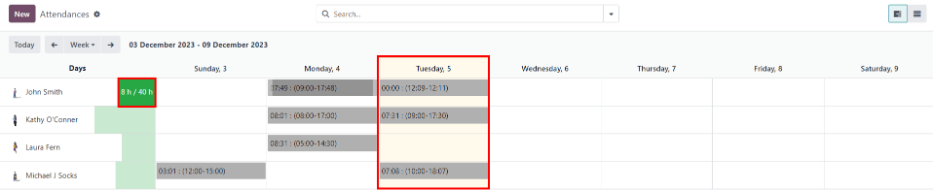
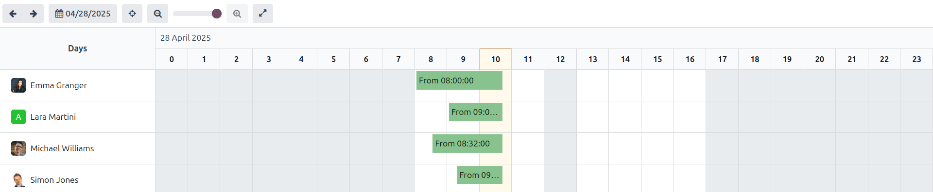
[IMP] Attendances: Update overview section
X-original-commit: c9d3d22939b2cc068b13187fb9f51f5cd41e8d51

diff --git a/content/applications/hr/attendances.rst b/content/applications/hr/attendances.rst
@@ -78,6 +78,8 @@ to access the configuration menu.
    company-specific configuration. Items without an :icon:`fa-building-o` :guilabel:`(building)`
    icon apply to all companies within the database.
 
+.. _attendances/modes:
+
 Modes
 -----
 
@@ -141,143 +143,137 @@ Overview
 ========
 
 When entering the **Attendances** application, the :guilabel:`Overview` dashboard is presented,
-containing all the check in and check out information for the signed in user. If the user has
-specific :ref:`access rights <attendances/access-rights>` and/or are :ref:`approvers
-<attendances/approvers>` for specific employees, then those additional employee's check in and check
-out information is also visible on the :guilabel:`Overview` dashboard.
+containing all the user's check in and check out information. If the user has the required
+:ref:`access rights <attendances/access-rights>` or is an :ref:`approver <attendances/approvers>`
+for specific employees, those employeess' check-in and check-out information also appears on the
+:guilabel:`Overview` dashboard.
 
-Views
------
-
-To change the view from the default Gantt chart to a list view, click the :guilabel:`List` icon in
-the top-right of the dashboard, beneath the user's photo. To switch back to the Gantt chart, click
-the :guilabel:`Gantt` button, located next to the :guilabel:`List` button.
-
-The default view presents the current day's information. To present the information for the
-:guilabel:`Week`, :guilabel:`Month`, or :guilabel:`Year`, click on the :guilabel:`Day` button to
-reveal a drop-down, displaying those other options. Select the desired view, and the dashboard
-updates, presenting the selected information. To change the :guilabel:`Day`, :guilabel:`Week`,
-:guilabel:`Month`, or :guilabel:`Year` presented, click the :icon:`oi-arrow-left` :guilabel:`(left
-arrow)` or :icon:`oi-arrow-right` :guilabel:`(right arrow)` buttons on either side of the drop-down
-menu. To jump back to a view containing the current day, click the :guilabel:`Today` button. This
-refreshes the dashboard, presenting information containing the current day's information.
-
-In the :guilabel:`Day` view, the column for the current hour is highlighted in yellow. If the
-:guilabel:`Week` or :guilabel:`Month` view is selected, the column for the current day is
-highlighted. If the :guilabel:`Year` view is selected, the current month is highlighted.
+The **Attendance** dashboard allows switching between :icon:`fa-tasks` :guilabel:`(Gantt)` and
+:icon:`oi-view-list` :guilabel:`(List)` views, and selecting a period to analyze. The current period
+is automatically highlighted in yellow for real-time attendance records, while the
+:icon:`fa-crosshairs` :guilabel:`(Focus Today)` button instantly returns the dashboard to the
+present date.
 
 .. image:: attendances/overview.png
    :alt: The overview dashboard presenting the information for the week, with the current day
          highlighted.
 
-Any entries that have errors appear in red, indicating they need to be resolved by a user with the
-proper :ref:`access rights <attendances/access-rights>` and/or are :ref:`approvers
-<attendances/approvers>` for the employees with the errors.
+.. note::
+   Any entries that have errors appear in red, indicating they need to be resolved by a user with
+   the proper :ref:`access rights <attendances/access-rights>` and/or are :ref:`approvers
+   <attendances/approvers>` for the employees with the errors.
 
 .. _attendances/filters-groups:
 
 Filters and groups
+==================
+
+Sometimes, attendance officers and managers need to view specific records, such as all automatic
+checkouts to determine which employees chronically forget to check-out, or by department, to
+determine which team is working the most overtime.
+
+For these cases, use the search bar to select a :icon:`fa-filter` :guilabel:`Filters` or
+:icon:`oi-group` :guilabel:`Group By`, or combine these both to present the desired information.
+
+.. seealso::
+   :doc:`../essentials/search`
+
+High-value filters
 ------------------
 
-To filter the results in the overview dashboard, or to present different groups of information,
-click the :icon:`fa-caret-down` :guilabel:`(Toggle Search Panel)` button in the right side of the
-:guilabel:`Search` bar above the dashboard, and select one of the available :guilabel:`Filters` or
-:guilabel:`Group By` options. Several preconfigured filters and groups are available to choose from,
-as well as an option to create custom ones.
+.. list-table::
+   :header-rows: 1
+   :stub-columns: 1
+   :widths: 40 60
 
-Filters
-~~~~~~~
+   * - Filter
+     - Common use case
+   * - At Work
+     - Verify employees still on-site before shutting down the building for the night, or to perform
+       a head count.
+   * - Errors
+     - View all errors to correct them prior to payroll processing.
+   * - Automatically Checked-Out
+     - Perform an audit to determine employees who chronically forget to check-out of work.
+   * - Date
+     - Limit results to a specific pay-period or audit window.
+   * - Active/Archived Employees
+     - Switch between current staff and former employees when auditing historical data.
 
-The default filters that can be selected are:
+Insightful groupings
+--------------------
 
-- :guilabel:`My Attendances`: this filter only presents the user's attendance data.
-- :guilabel:`My Team`: this filter presents the attendance data for the user's team.
-- :guilabel:`At Work`: this filter displays the attendance data for everyone currently checked in.
-- :guilabel:`Errors`: this filter displays any entries with :ref:`errors <attendances/errors>` that
-  need to be resolved.
-- :guilabel:`Check In`: this filter has a drop-down to further select a specific time period. Select
-  the desired time period from the options presented, a specific month, quarter, or year.
-- :guilabel:`Last 7 days`: this filter presents the attendance data for the last seven days.
-- :guilabel:`Add Custom Filter`: create a custom filter using the pop-up that appears when this is
-  selected.
+.. list-table::
+   :header-rows: 1
+   :stub-columns: 1
+   :widths: 40 60
 
-Groups
-~~~~~~
-
-The default groups that can be selected are:
-
-- :guilabel:`Check In`: this grouping presents a drop-down menu containing the following time period
-  options: :guilabel:`Year`, :guilabel:`Quarter`, :guilabel:`Month`, :guilabel:`Week`, and
-  :guilabel:`Day`. Selected the time period to display all the check-in information, grouped by the
-  selected time period.
-- :guilabel:`Employee`: this group presents the attendance data organized by employee.
-- :guilabel:`Check Out`: this grouping presents a drop-down menu containing the following time
-  period options: :guilabel:`Year`, :guilabel:`Quarter`, :guilabel:`Month`, :guilabel:`Week`, and
-  :guilabel:`Day`. Selected the time period to display all the check-out information, grouped by the
-  selected time period.
-- :guilabel:`Add Custom Group`: this option displays a drop-down menu with a variety of options to
-  group the attendance data by, including :guilabel:`City`, :guilabel:`Country`, :guilabel:`Mode`,
-  and :guilabel:`IP Address`.
+   * - Group by
+     - When it helps
+   * - Employee
+     - Review individual attendance records during a 1:1 meeting.
+   * - Department
+     - Compare staffing levels and working hours to determine over-working and under-working teams.
+   * - Manager
+     - Determine where attendance follow-up questions can be directed to for an employee.
+   * - Method
+     - Spot trends in attendance methods to potentially resolve hardware issues.
+   * - Date (Day/Week/Month)
+     - Identify absenteeism spikes or seasonal patterns.
 
 .. _attendances/errors:
 
 Attendance log details
-----------------------
+======================
 
-Odoo captures various time and location details when a user checks in and out. The specific details
-provided are determined by the method the user checked in and out.
-
-To view the specific check in and/or check out details for an employee, click on an individual entry
-in the overview dashboard.
-
-A detailed attendance log for the user appears in a pop-up window. To close the detailed attendance
-log, click the :guilabel:`Save & Close` button in the bottom-left corner of the form.
+Odoo records both the time and location for every check-in and check-out, with fields varying by the
+method used. These detailed attendance logs can confirm where an employee was on any given work day.
+This can be useful for companies with hybrid working schedules, who may need to perform audits to
+ensure proper compliance.
 
 The detailed attendance log contains the following information:
 
 Main details
-~~~~~~~~~~~~
+------------
 
 - :guilabel:`Employee`: the name of the employee.
 - :guilabel:`Check In`: the date and time the employee checked in.
-- :guilabel:`Check Out`: the date and time the employee checked out. This only appears if the
+- :guilabel:`Check Out`: the date and time the employee checked out. This **only** appears if the
   employee has checked out.
-- :guilabel:`Worked Hours`: the total amount of time the employee logged for the day, in an hour and
-  minute format (HH:MM). This value calculates all the checks in and check outs for the day, if the
-  employee checked in and out multiple times.
-- :guilabel:`Extra Hours`: any extra hours the employee logged that is beyond their expected working
-  hours.
+- :guilabel:`Worked Time`: the total amount of time the employee logged for the day, across multiple
+  check-ins and outs. In an hour and minute format (HH:MM).
+- :guilabel:`Worked Extra Hours`: approved overtime (shows **only** when present for the employee).
+- :guilabel:`Extra Hours`: unpaid overtime hours worked beyond the expected working schedule (the
+  :guilabel:`Worked Time` minus the approved :guilabel:`Worked Extra Hours`.
 
 Check in/check out details
-~~~~~~~~~~~~~~~~~~~~~~~~~~
+--------------------------
 
 The following information appears for both the :guilabel:`Check In` and :guilabel:`Check Out`
 sections.
 
-- :guilabel:`Mode`: the method with which the attendance information was gathered.
-  :guilabel:`Systray` is displayed if the employee logged in and out :ref:`directly from the
-  database <attendances/check-in>`, :guilabel:`Manual` is displayed if the employee logged in and
-  out :ref:`using an attendance kiosk <attendances/kiosk-mode-entry>`.
-- :guilabel:`IP Address`: the IP address for the computer the employee used to log in or out.
+- :guilabel:`Mode`: attendance submission method. Can be :ref:`Systray <attendances/check-in>`,
+  :ref:`Kiosk <attendances/kiosk-mode-entry>`, or :guilabel:`Manual` entry.
+- :guilabel:`IP Address`: the device's IP address used to log in or out.
 - :guilabel:`Browser`: the web browser the employee used to log in or out.
-- :guilabel:`Localization`: the city and country associated with the computer's IP address.
+- :guilabel:`Localisation`: the city and country associated with the computer's IP address.
 - :guilabel:`GPS Coordinates`: the specific coordinates when the user logged in or out. To view the
-  specific coordinates on a map, click the :guilabel:`→ View on Maps` button beneath the
-  :guilabel:`GPS Coordinates`. This opens a map in a new browser tab, with the specific location
-  pointed out.
+  specific coordinates on a map, click the :icon:`oi-arrow-right` :guilabel:`View on Maps` button
+  beneath the :guilabel:`GPS Coordinates`. This opens a map in a new browser tab, with the specific
+  location pointed out.
 
 .. image:: attendances/details.png
    :alt: The detailed information for an attendance entry.
 
-Errors
-------
+Attendance errors
+=================
 
-Entries that contain an error appear on the overview dashboard in red. In the :guilabel:`Gantt
-view`, the entry appears with a red background. If in the :guilabel:`List view`, the entry text
-appears in red.
+Entries that contain an error appear on the overview dashboard in red. In the :icon:`fa-tasks`
+:guilabel:`(Gantt)` view, the entry appears with a red background. If in the :icon:`oi-view-list`
+:guilabel:`(List)` view, the entry text appears in red.
 
-An error typically occurs when an employee has checked in but has not checked out within the last 24
-hours, or when an employee has a check in and check out period spanning over 16 hours.
+An error occurs when an employee has checked in but not checked out within 24 hours, or when a
+single check-in period exceeds 16 hours.
 
 To fix the error, the attendance entry must be modified or deleted. Click on the entry to reveal a
 pop-up containing the details for that particular entry. To modify the :guilabel:`Check In` and/or
@@ -286,15 +282,11 @@ and a calendar selector appears. Click on the desired date, then use the time se
 calendar to select the specific time for the entry. When the information is correct, click
 :guilabel:`Apply.`
 
-.. image:: attendances/errors.png
-   :alt: The pop-up that allows for modifications to an attendance entry with an error. The calendar
-         selector is shown, and the time selector is highlighted.
-
 When all the information on the pop-up is correct, click :guilabel:`Save & Close`. When the entry no
 longer has an error, the entry appears in gray instead of red.
 
-To delete an entry, click :guilabel:`Remove` on the pop-up instead of making modifications to the
-entry.
+To delete an entry, click the red :guilabel:`Delete` button on the pop-up window instead of making
+modifications to the entry.
 
 Reporting
 =========
